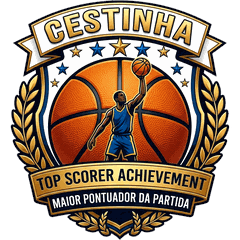
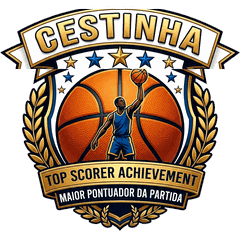
Cestinha: faixa CESTINHA maior; fogo só nas folhas de louro, sem passar na faixa TOP SCORER
Claude-Session: https://claude.ai/code/session_01Ufw5em1U7zhES5ZZ6BceRT

diff --git a/aovivo.html b/aovivo.html
@@ -955,7 +955,7 @@ kt_init();
 
 <script>/*ktFogoLouro*/(function(){
   // fogo leve e contínuo só nas folhas de louro do selo do Cestinha (Magno, 20/11/2026)
-  const L=[[.16,.33],[.11,.42],[.09,.52],[.11,.62],[.15,.69],[.21,.74]]; // folhas da esquerda (fração da imagem); a direita é o espelho
+  const L=[[.16,.42],[.13,.48],[.12,.54],[.13,.60],[.16,.66]]; // termina antes da faixa TOP SCORER (Magno, 20/11) // folhas da esquerda (fração da imagem); a direita é o espelho
   const pto=t=>{ const n=L.length-1, i=Math.min(n-1,Math.floor(t*n)), f=t*n-i; return [L[i][0]+(L[i+1][0]-L[i][0])*f, L[i][1]+(L[i+1][1]-L[i][1])*f]; };
   const est=new WeakMap();
   function passo(){
@@ -965,7 +965,7 @@ kt_init();
       const iw=w/1.2, ox=w*(.1/1.2), oy=h*(.22/1.22), e=iw/58;
       let P=est.get(cv); if(!P){ P=[]; est.set(cv,P); }
       for(let i=0;i<3;i++){ const [fx,fy]=pto(Math.random()), lado=Math.random()<.5;
-        P.push({x:ox+(lado?fx:1-fx)*iw+(Math.random()-.5)*2*e, y:oy+fy*iw, vx:(Math.random()-.5)*.12*e, vy:-(0.18+Math.random()*0.32)*e, r:(2.4+Math.random()*2.2)*e, v:0, max:18+Math.random()*16}); }
+        P.push({x:ox+(lado?fx:1-fx)*iw+(Math.random()-.5)*1.5*e, y:oy+fy*iw, vx:(lado?-1:1)*Math.random()*.06*e, vy:-(0.08+Math.random()*0.14)*e, r:(2.0+Math.random()*1.8)*e, v:0, max:12+Math.random()*12}); }
       const c=cv.getContext('2d'); c.setTransform(dpr,0,0,dpr,0,0); c.clearRect(0,0,w,h); c.globalCompositeOperation='lighter';
       for(let i=P.length-1;i>=0;i--){ const p=P[i]; p.v++; p.x+=p.vx+Math.sin((p.v+p.y)*.2)*.08*e; p.y+=p.vy; const t=p.v/p.max;
         if(t>=1){ P.splice(i,1); continue; }

diff --git a/sw.js b/sw.js
@@ -3,7 +3,7 @@
  * v2 (20/11/2026): pede sempre a versão nova ao site e a página se recarrega sozinha quando sai atualização.
  * Sem internet, abre a última cópia guardada das páginas e imagens do próprio site.
  * Nunca guarda os dados do jogo (servidor Google): os números sempre vêm ao vivo. */
-const CACHE = 'klaustv-app-v5';
+const CACHE = 'klaustv-app-v6';
 const BASICO = ['aovivo.html', 'manifest.webmanifest', 'logo_klaustv_tv.png', 'bola_fiba.png', 'app/icone-192.png', 'app/apple-touch-icon.png'];
 
 self.addEventListener('install', e => {
